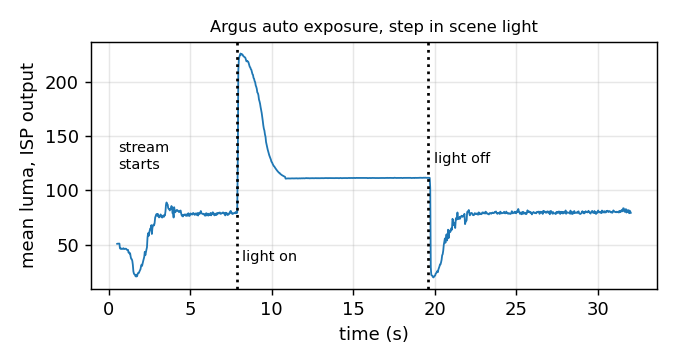
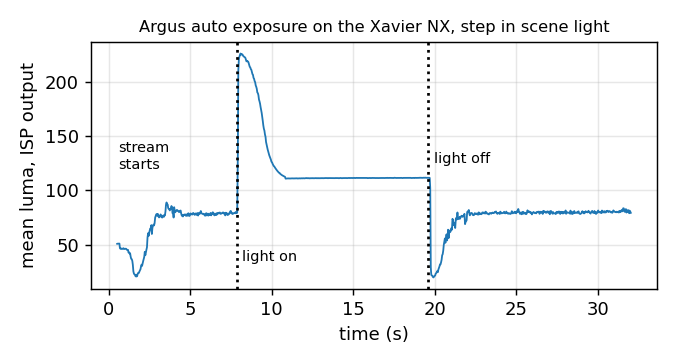
docs: explain how the measurements become the override file
Add a section that follows the numbers from the fit to the keys in
isp/camera_overrides_noir.isp, with a worked example. Fix the white
point figure, whose legend implied points that were not plotted, and
plot the black level for both boards.

Give the README a short section on colour with the results and the
install commands, and link the tuning notes from it.

Assisted-by: Claude:claude-opus-5-5

Changed region(s): [[0.1864, 0.0604, 0.9009, 0.0907]]

diff --git a/docs/isp-tuning.md b/docs/isp-tuning.md
@@ -128,8 +128,9 @@ that keeps the matrix near identity:
 
 $$ M^* = \arg\min_M \frac{1}{18} \sum_{k=1}^{18} \Delta E_{76}\big(\mathrm{Lab}(M\,\mathbf{x}_k),\ \mathrm{Lab}_k\big) + \lambda \lVert M - I \rVert_F^2 $$
 
-λ is 0.1 indoors and 3 for daylight. The Xavier NX and the Orin Nano
-modules are fitted together. A saturation factor s is then folded in
+λ is 0.1 indoors and 3 for daylight. The two camera modules are
+fitted together, one on each board for the LED sources and both on the
+Xavier NX in daylight. A saturation factor s is then folded in
 with luma preserved:
 
 $$ M_s = \big((1-s)\,\mathbf{1}\mathbf{y}^\top + s I\big) M, \quad \mathbf{y} = (0.2126, 0.7152, 0.0722), \ s = 1.2 $$
@@ -148,6 +149,46 @@ linear, scaled so that N6.5 matches the reference and converted to
 Lab, and ΔE is computed per patch. This score includes the ISP's tone
 curve and sharpening, which the raw fit does not see, so it reads
 higher than the fit.
+
+## From the measurements to the file
+
+Nothing is written into a binary. `libnvscf.so` is only read: `strings`
+on it lists the generic tuning, with the key names and their defaults.
+The override is a plain text file with the same `key = value;` syntax.
+Argus reads it at start and applies it on top of the generic tuning.
+
+White points. For each source the fit gives the raw ratios R/G and B/G
+of a grey patch. For the LED sources they are the mean of the two
+modules, for daylight the shade measurement. These get the
+empirical correction (R x1.08, B x1.12) and are scaled so that the
+largest of R, G and B is 900. The result goes into
+`awb.v4.FusionLights[i] = {R, Gr, Gb, B}` with Gr equal to Gb. Source B
+as an example:
+
+    raw grey        R/G 0.90   B/G 0.69
+    corrected       R/G 0.972  B/G 0.773
+    scaled to 900   {875, 900, 900, 696}
+
+The generic tuning names its eight light slots after illuminants (CIE
+A, FL11, 6500 K, 2400 K, 5000 K, 8000 K, FL2, OSRAM). The warm source
+takes slots 0 and 3, the neutral one 1, 4 and 6, the cool one 2 and 7,
+and daylight slot 5. The R value for source C was later lowered by
+hand from 724 to 700 while chasing a green tint, with little effect.
+
+Clamps. `LowU` 0.05, `HighU` 4.0, `GrayLineThickness` 1.0 and
+`NumGrayLineSoftClampPoints` 0, written for both `awb.` and `awb.v4.`.
+4.0 and 1.0 are the largest values Argus accepts.
+
+Colour matrices. Each fitted matrix, with the saturation folded in,
+maps white-balanced camera RGB to linear sRGB. Its transpose fills
+`colorCorrection.set[i].ccMatrix[0..2]`, and `ccMatrix[3]` is the
+identity row `{0, 0, 0, 1}`. The sets carry the labels 3500 K (source
+A), 4500 K (B), 5500 K (C) and 8500 K (daylight), chosen by measuring
+ΔE.
+
+Each change was checked the same way: copy the file into place,
+delete `nvcam_cache_*.bin`, restart `nvargus-daemon`, check the log for
+rejected lines, capture the chart through the ISP and score the JPEG.
 
 ## Other measurements
 

diff --git a/README.md b/README.md
@@ -20,7 +20,8 @@ after calibration with `isp/camera_overrides_noir.isp`.
 Outdoors the result is weaker. The modules used here are the NoIR
 variant and have no infrared cut filter, so foliage comes out pale and
 colourless with any tuning. The phone picture on the right is for
-scale. `docs/isp-tuning.md` has the measurements and the reasons.
+scale. [docs/isp-tuning.md](docs/isp-tuning.md) has the measurements
+and the reasons.
 
 ![A garden through the ISP, generic tuning and daylight override, next to a phone](docs/img/garden-comparison.jpg)
 
@@ -370,6 +371,31 @@ number 1. Both connectors give the same result.
 An application that uses `S_PARM`, `read()` or user pointers needs
 changes to run on this stack, with any sensor.
 
+## Colour on the ISP
+
+On R32 and R35 the ISP falls back to a generic tuning made for another
+sensor, and images come out magenta. `isp/camera_overrides_noir.isp`
+corrects white balance and colour for the NoIR module used here. It was
+fitted to a ColorChecker and checked on the Xavier NX ISP:
+
+| light source | generic tuning | with the override |
+|---|---|---|
+| warm LED | 41.7 | 17.9 |
+| neutral LED | 37.3 | 11.3 |
+| cool LED | 32.3 | 11.1 |
+
+The numbers are the mean ΔE over the chart's colour patches, lower is
+better. Outdoors the missing infrared filter limits what any tuning can
+do. To install the file:
+
+    sudo cp isp/camera_overrides_noir.isp /var/nvidia/nvcam/settings/camera_overrides.isp
+    sudo chmod 664 /var/nvidia/nvcam/settings/camera_overrides.isp
+    sudo rm -f /var/nvidia/nvcam/settings/nvcam_cache_*.bin
+    sudo systemctl restart nvargus-daemon
+
+[docs/isp-tuning.md](docs/isp-tuning.md) describes the measurements,
+the method, how the numbers become the file, and the limits.
+
 ## Control ranges in practice
 
 The current frame length limits exposure. At 30 fps the frame is 1435
@@ -542,14 +568,9 @@ Problems that took real debugging time:
 ## Known limitations
 
 - Without an override file the ISP uses a generic tuning made for
-  another sensor. Its AWB settles on that sensor's white and its colour
-  matrix is the identity, so images pull magenta and look washed out,
-  as the left half of the chart image above shows.
-  `isp/camera_overrides_noir.isp` corrects this for the NoIR module
-  under artificial light. `docs/isp-tuning.md` has the measurements,
-  the keys and the remaining problems. On R35 the ISP reads the
-  override from `/var/nvidia/nvcam/settings/camera_overrides.isp` after
-  `nvcam_cache_*.bin` there is deleted and `nvargus-daemon` restarted.
+  another sensor, and images pull magenta. The override file in `isp/`
+  is checked on R35 only and is untested outdoors. See Colour on the
+  ISP.
 - Raw V4L2 capture and Argus do not mix within one session. After an
   Argus pipeline the raw path delivers no frames until the sensor
   driver is rebound. This happens on both L4T generations while the
